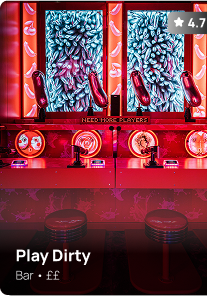
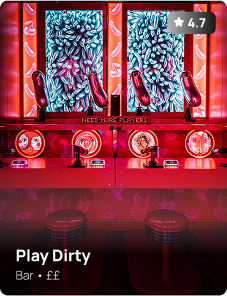
feat: add animation to slider

diff --git a/src/assets/styles/variables/colors.scss b/src/assets/styles/variables/colors.scss
@@ -29,6 +29,7 @@ $border-divider: rgba(231, 233, 231, 0.2);
 
 //border-radius
 $border-radius-default: 16px;
+$border-radius-slider-img: 8px;
 
 //extra
 $extra-border: #ffffff38;
